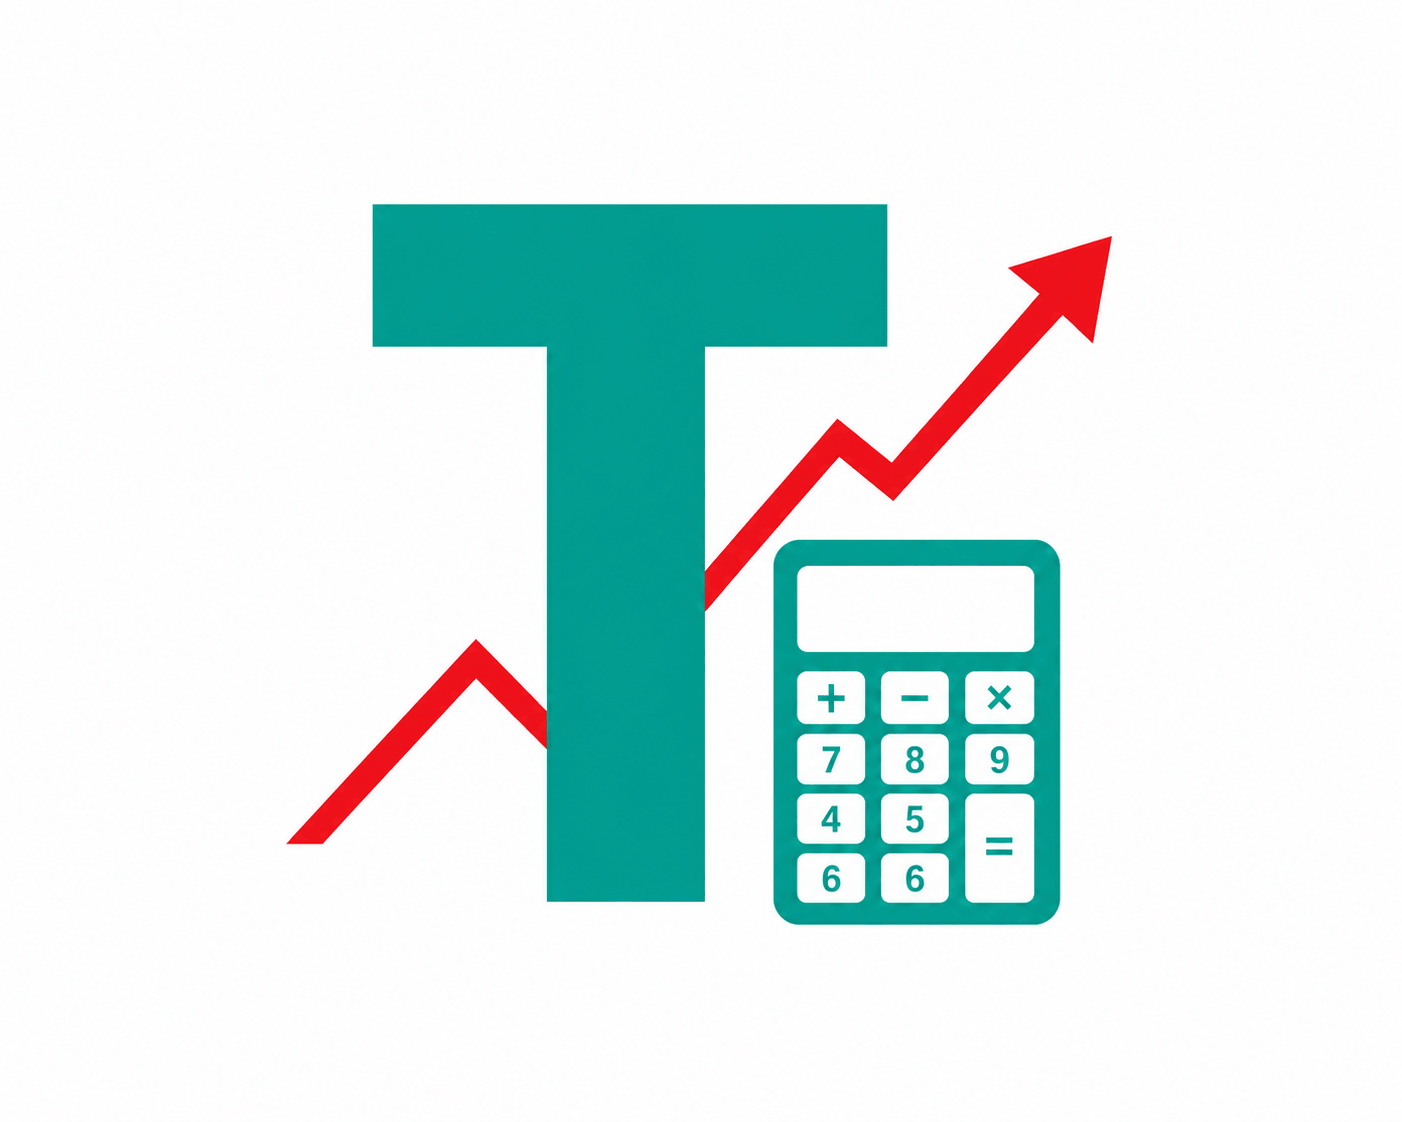
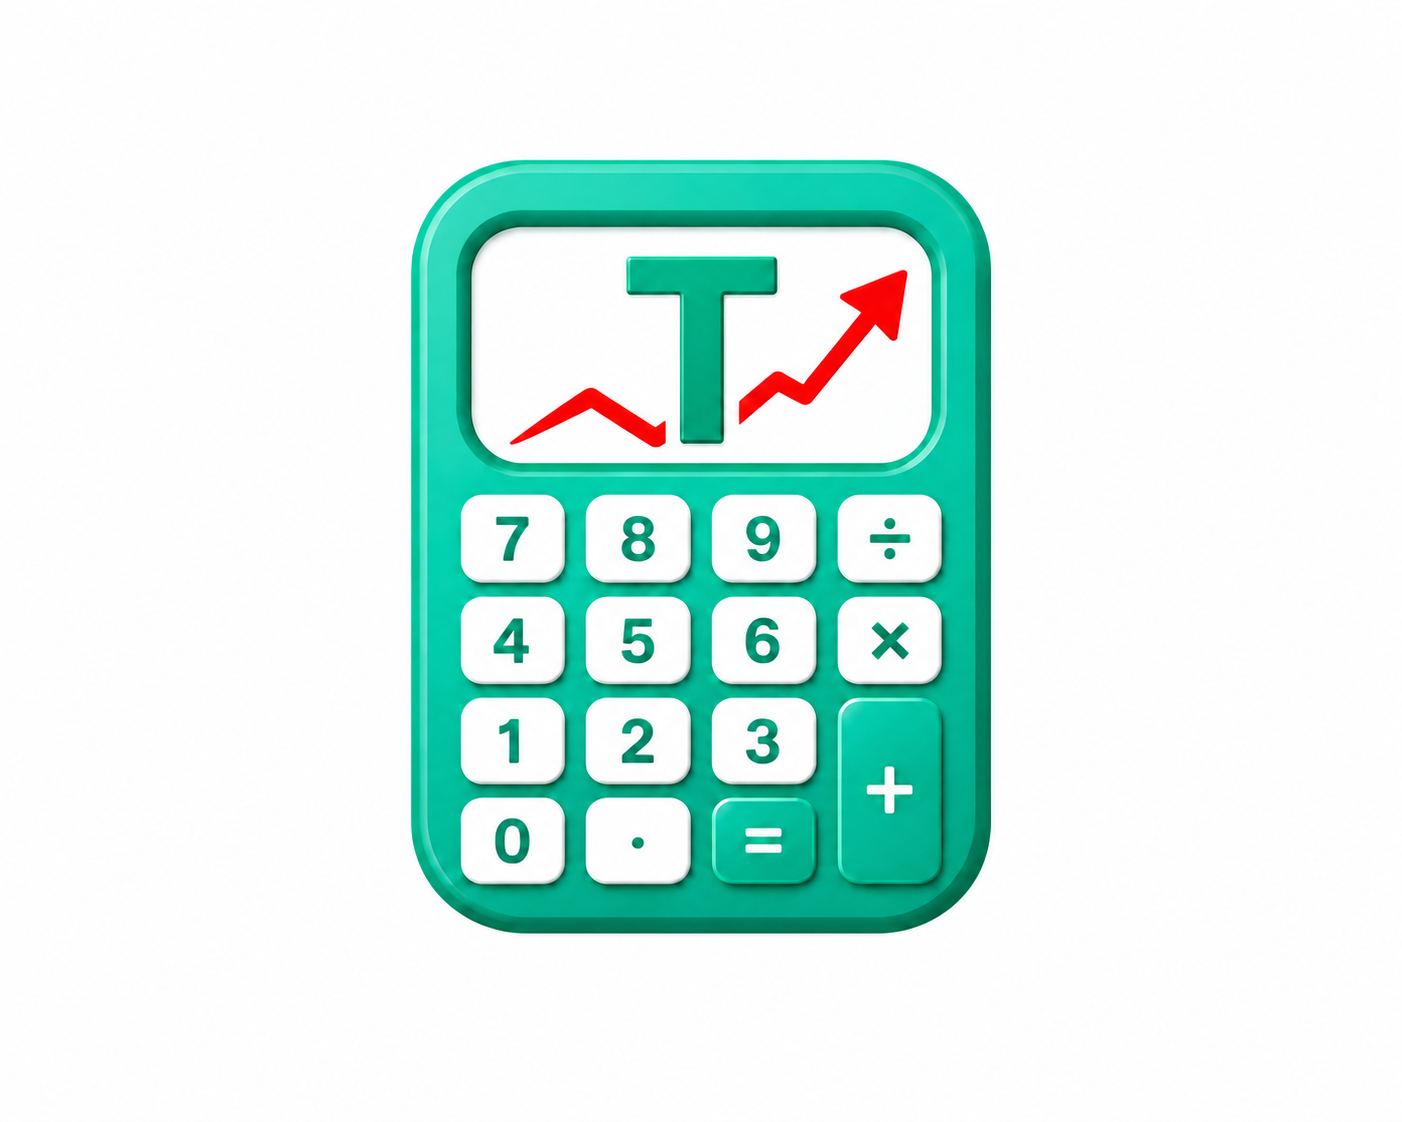
完善首页入口和分享配置

Changed region(s): [[0.2147, 0.1248, 0.7974, 0.8422]]

diff --git a/pages/article-webview/article-webview.js b/pages/article-webview/article-webview.js
@@ -1,0 +1,21 @@
+const { getShareMessage, getShareTimelineMessage } = require("../../utils/share");
+
+Page({
+  data: {
+    url: ""
+  },
+
+  onLoad(options) {
+    this.setData({
+      url: decodeURIComponent(options.url || "")
+    });
+  },
+
+  onShareAppMessage() {
+    return getShareMessage();
+  },
+
+  onShareTimeline() {
+    return getShareTimelineMessage();
+  }
+});

diff --git a/pages/index/index.js b/pages/index/index.js
@@ -1,5 +1,6 @@
 const TRADE_RECORD_MINI_PROGRAM_APP_ID = "wx253309efe732b547";
 const { getShareMessage, getShareTimelineMessage } = require("../../utils/share");
+const { ARTICLE_URL } = require("../../utils/article");
 
 Page({
   data: {
@@ -50,6 +51,20 @@ Page({
   openTradeRecordMiniProgram() {
     wx.navigateToMiniProgram({
       appId: TRADE_RECORD_MINI_PROGRAM_APP_ID
+    });
+  },
+
+  openArticle() {
+    if (!ARTICLE_URL) {
+      wx.showToast({
+        title: "文章链接待配置",
+        icon: "none"
+      });
+      return;
+    }
+
+    wx.navigateTo({
+      url: "/pages/article-webview/article-webview?url=" + encodeURIComponent(ARTICLE_URL)
     });
   },
 

diff --git a/utils/article.js b/utils/article.js
@@ -1,0 +1,5 @@
+const ARTICLE_URL = "";
+
+module.exports = {
+  ARTICLE_URL
+};

diff --git a/README.md b/README.md
@@ -77,6 +77,7 @@
 - 每个计算器页面默认开启“记住数据”
 - 首页提供“做T记录助手Pro”小程序跳转入口，入口文案为“开始管理我的做T记录”
 - 首页提供“在线客服 / 反馈建议”按钮，使用微信原生客服会话能力
+- 首页右上角提供灯泡入口，可跳转到公众号文章链接；链接配置在 `utils/article.js`
 - 首页提供分享小程序按钮，页面提示“感谢您的分享支持，祝您投资顺利！”，分享标题为“做T交易计算器”
 - 所有页面都支持分享，分享标题统一为“做T交易计算器”
 - 分享图片取 `app.globalData.shareImage`；如果是 `cloud://` 图片，启动时会尝试下载为临时路径后用于分享